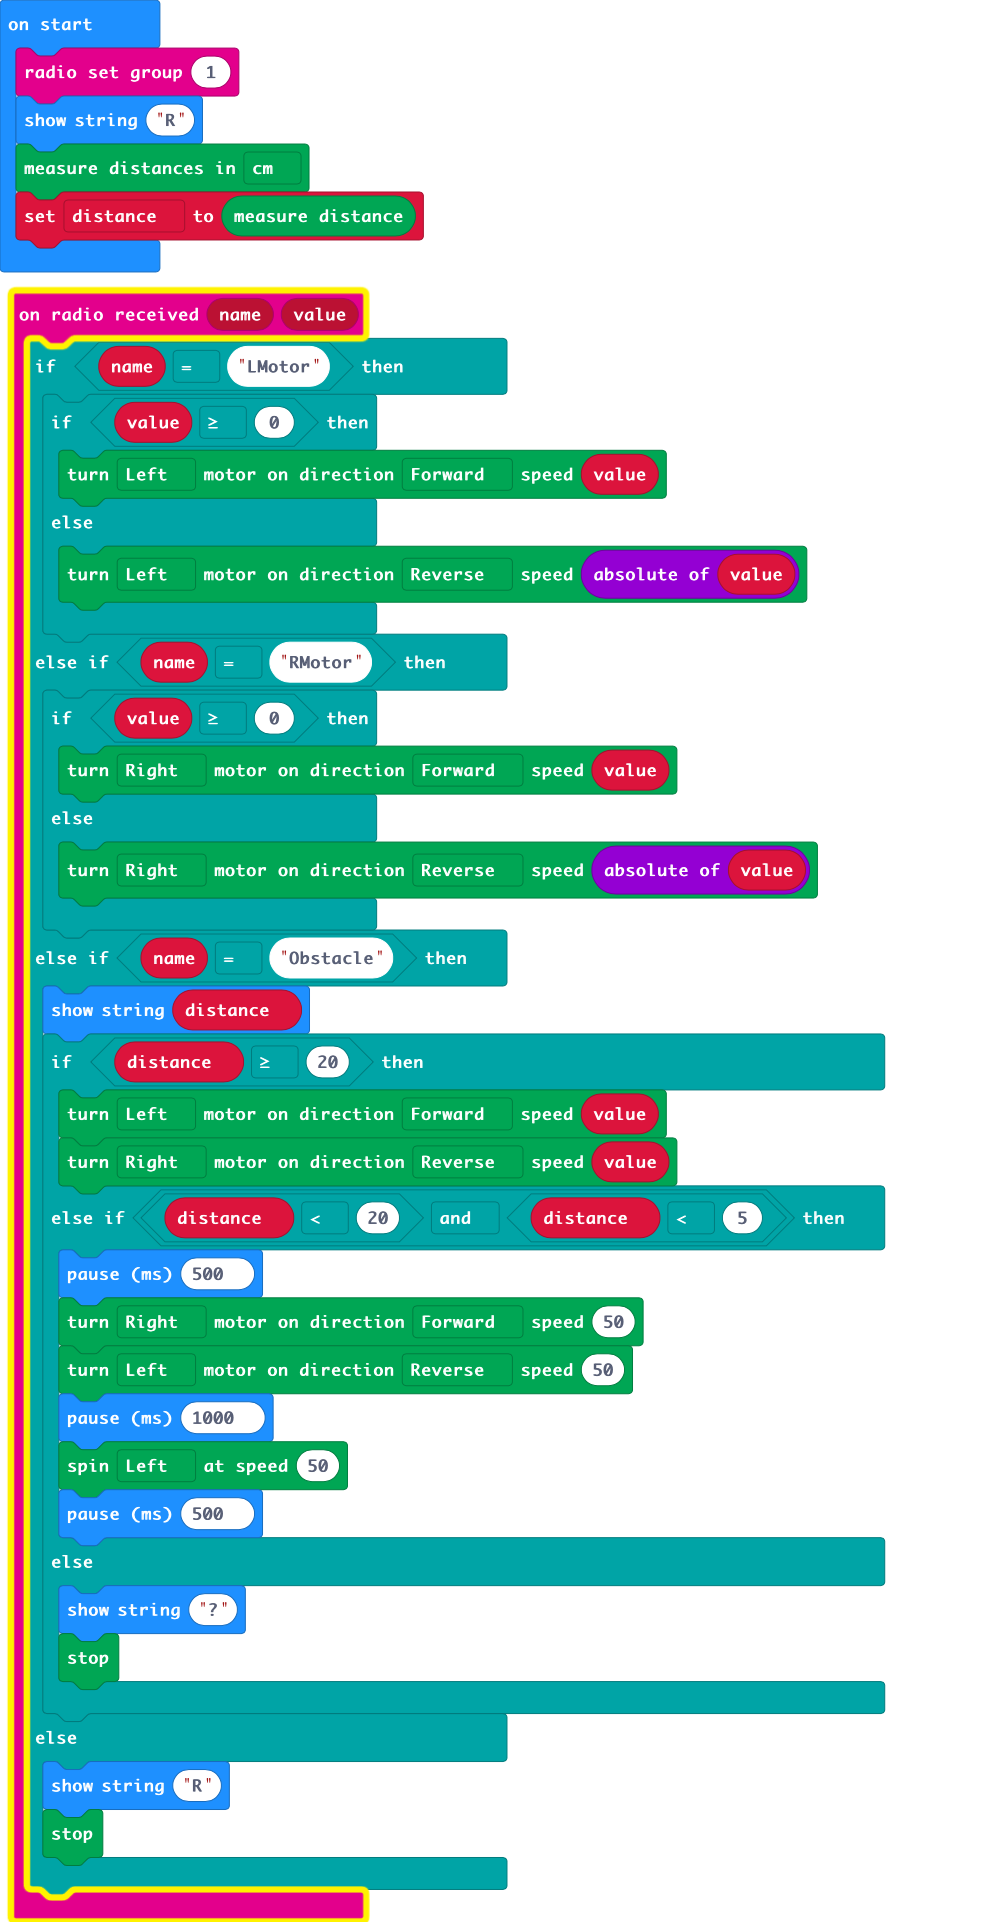
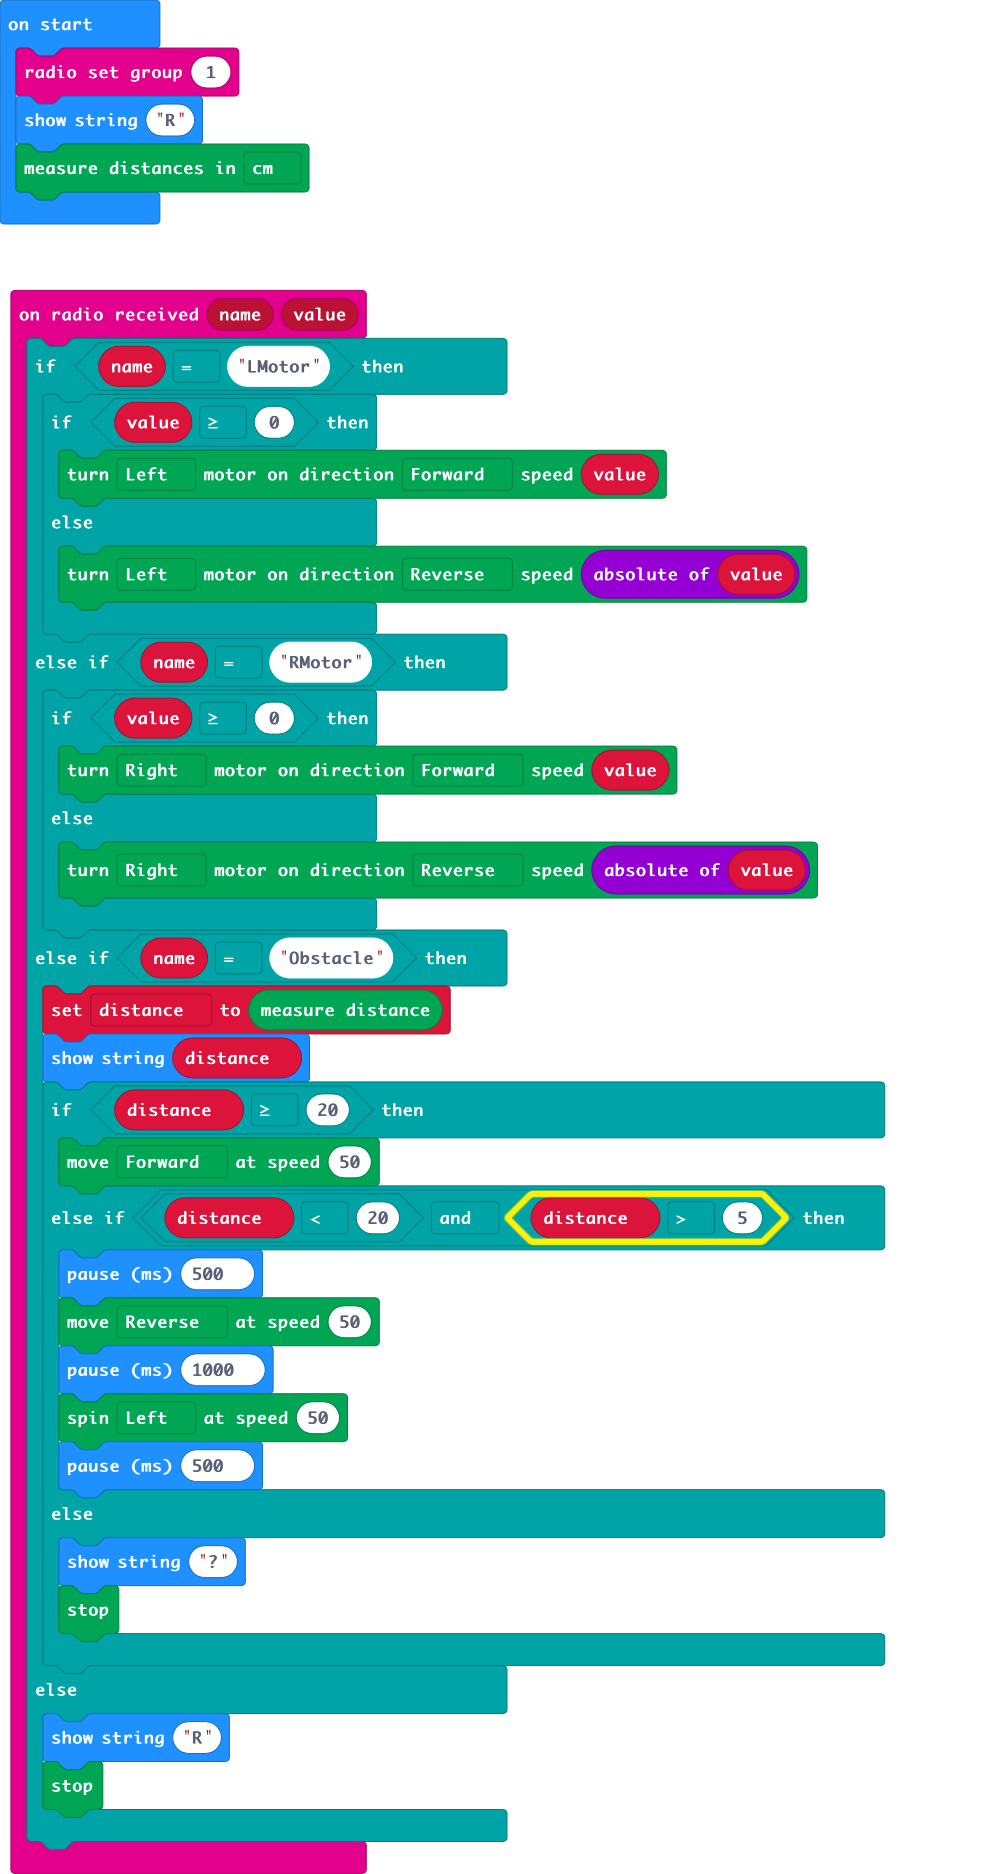
Update main.blocks, main.ts

Changed region(s): [[0.0, 0.0, 0.91, 1.0]]

diff --git a/main.ts b/main.ts
@@ -12,14 +12,13 @@ radio.onReceivedValue(function (name, value) {
             Kitronik_Move_Motor.motorOn(Kitronik_Move_Motor.Motors.MotorRight, Kitronik_Move_Motor.MotorDirection.Reverse, Math.abs(value))
         }
     } else if (name == "Obstacle") {
+        distance = Kitronik_Move_Motor.measure()
         basic.showString("" + (distance))
         if (distance >= 20) {
-            Kitronik_Move_Motor.motorOn(Kitronik_Move_Motor.Motors.MotorLeft, Kitronik_Move_Motor.MotorDirection.Forward, value)
-            Kitronik_Move_Motor.motorOn(Kitronik_Move_Motor.Motors.MotorRight, Kitronik_Move_Motor.MotorDirection.Reverse, value)
-        } else if (distance < 20 && distance < 5) {
+            Kitronik_Move_Motor.move(Kitronik_Move_Motor.DriveDirections.Forward, 50)
+        } else if (distance < 20 && distance > 5) {
             basic.pause(500)
-            Kitronik_Move_Motor.motorOn(Kitronik_Move_Motor.Motors.MotorRight, Kitronik_Move_Motor.MotorDirection.Forward, 50)
-            Kitronik_Move_Motor.motorOn(Kitronik_Move_Motor.Motors.MotorLeft, Kitronik_Move_Motor.MotorDirection.Reverse, 50)
+            Kitronik_Move_Motor.move(Kitronik_Move_Motor.DriveDirections.Reverse, 50)
             basic.pause(1000)
             Kitronik_Move_Motor.spin(Kitronik_Move_Motor.SpinDirections.Left, 50)
             basic.pause(500)
@@ -36,4 +35,3 @@ let distance = 0
 radio.setGroup(1)
 basic.showString("R")
 Kitronik_Move_Motor.setUltrasonicUnits(Kitronik_Move_Motor.Units.Centimeters)
-distance = Kitronik_Move_Motor.measure()
